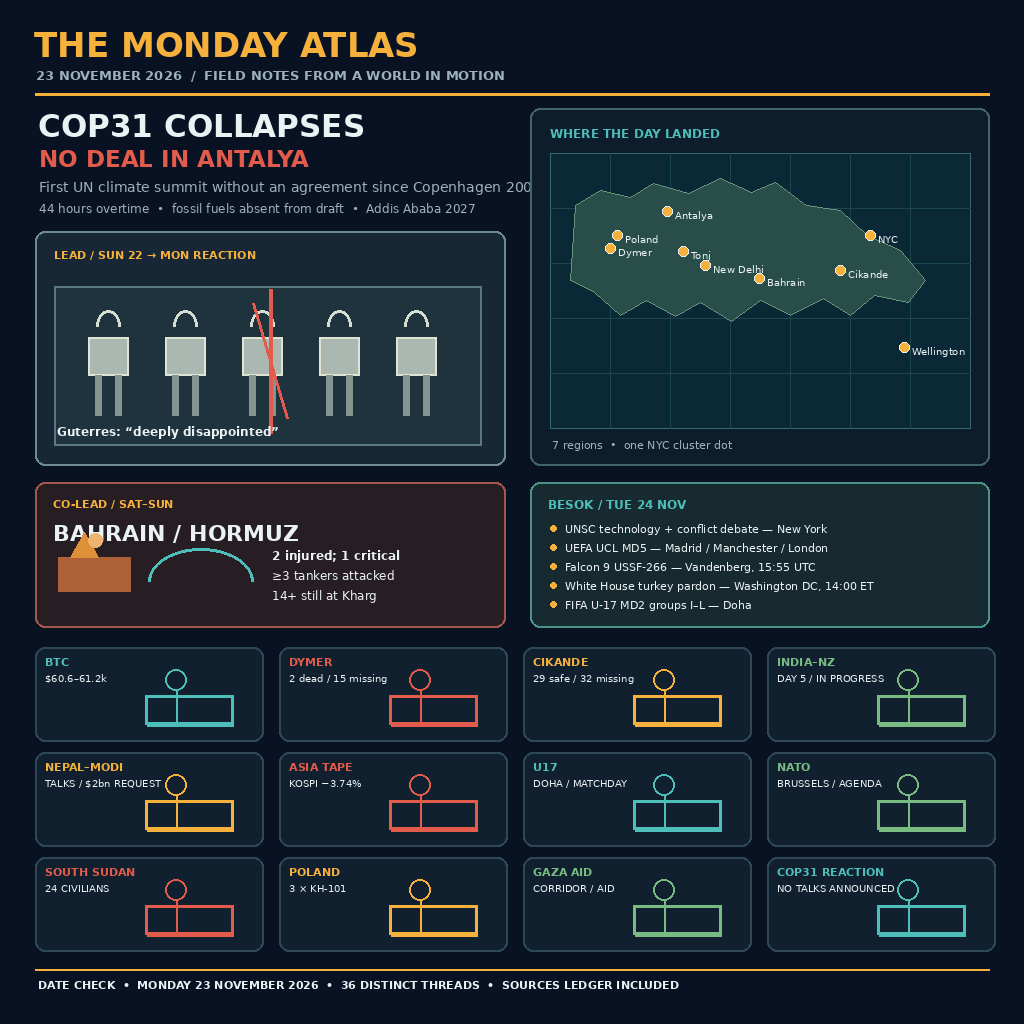
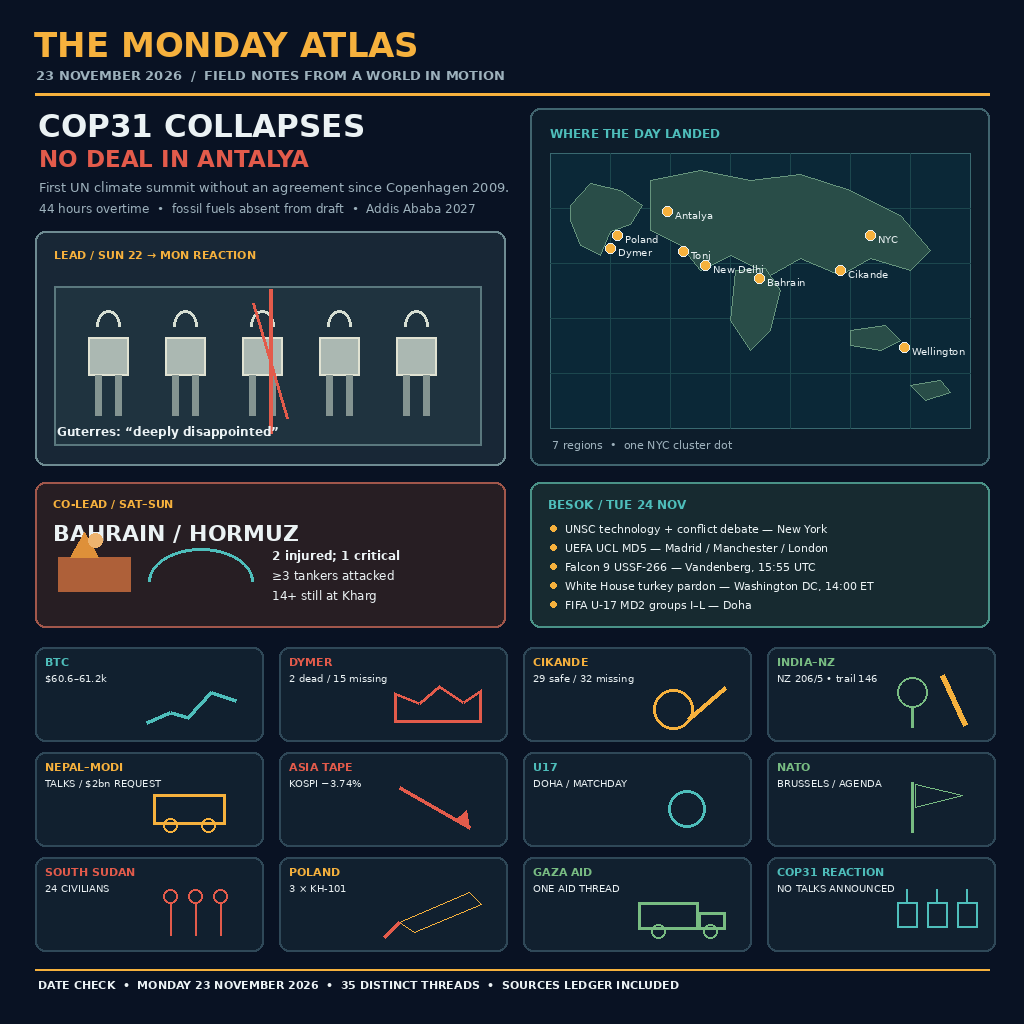
Fix R2 main.ts env, lead clip, map, cards, sources

diff --git a/main.ts b/main.ts
@@ -1,6 +1,6 @@
 import { copyFileSync, mkdirSync } from 'node:fs';
 import { dirname, join } from 'node:path';
-const out = process.argv[2] ?? 'output';
+const out = process.env.MAKEFUN_OUTPUT_DIR ?? '/output';
 // The wrapper is intentionally filesystem-only for the server-way harness.
 mkdirSync(out, { recursive: true });
 copyFileSync(join(dirname(new URL(import.meta.url).pathname), 'entry.png'), join(out, 'entry.png'));

diff --git a/render.py b/render.py
@@ -6,7 +6,7 @@ def F(n,b=0): return ImageFont.truetype(bp if b else fp,n)
 def t(x,y,s,n=14,c=INK,b=0): d.text((x,y),s,font=F(n,b),fill=c)
 def p(box,fill=PAPER,ol=LINE): d.rounded_rectangle(box,10,fill=fill,outline=ol,width=2)
 t(34,25,'THE MONDAY ATLAS',34,ACC,1); t(36,67,'23 NOVEMBER 2026  /  FIELD NOTES FROM A WORLD IN MOTION',13,MUTED,1); d.line((35,94,989,94),fill=ACC,width=3)
-t(38,108,'COP31 COLLAPSES',31,INK,1); t(39,145,'NO DEAL IN ANTALYA',23,RED,1); t(39,179,'First UN climate summit without an agreement since Copenhagen 2009.',14,MUTED); t(39,201,'44 hours overtime  •  fossil fuels absent from draft  •  Addis Ababa 2027',12,MUTED)
+t(38,108,'COP31 COLLAPSES',31,INK,1); t(39,145,'NO DEAL IN ANTALYA',23,RED,1); t(39,179,'First UN climate summit without an agreement since Copenhagen 2009.',13,MUTED); t(39,201,'44 hours overtime  •  fossil fuels absent from draft  •  Addis Ababa 2027',12,MUTED)
 p((35,231,505,465),(24,39,54),(110,139,146)); t(54,248,'LEAD / SUN 22 → MON REACTION',11,ACC,1); d.rectangle((54,286,481,445),fill=(31,51,63),outline=(90,120,126),width=2)
 for x in (88,165,242,319,396):
  d.rectangle((x,337,x+40,375),fill=(171,184,178),outline=(224,226,210),width=2); d.rectangle((x+7,375,x+13,415),fill=(132,148,145)); d.rectangle((x+27,375,x+33,415),fill=(132,148,145)); d.arc((x+8,310,x+32,342),180,360,fill=(214,222,210),width=3)
@@ -14,13 +14,28 @@ d.line((270,289,270,433),fill=RED,width=4); d.line((253,303,287,418),fill=RED,wi
 p((530,108,989,465),(13,29,43),(65,101,111)); t(550,126,'WHERE THE DAY LANDED',12,CYAN,1); mx,my,mw,mh=550,153,420,275; d.rectangle((mx,my,mx+mw,my+mh),fill=(11,40,55),outline=(57,105,112),width=1)
 for i in range(1,7): d.line((mx+i*mw/7,my,mx+i*mw/7,my+mh),fill=(28,71,78),width=1)
 for i in range(1,5): d.line((mx,my+i*mh/5,mx+mw,my+i*mh/5),fill=(28,71,78),width=1)
-coast=[(575,205),(600,190),(630,197),(653,183),(688,193),(720,178),(751,192),(775,182),(806,205),(840,210),(867,235),(900,250),(925,280),(908,302),(874,295),(850,315),(823,298),(790,315),(760,300),(731,321),(700,302),(675,316),(646,300),(620,315),(594,292),(570,280)]; d.polygon(coast,fill=(41,77,72),outline=(102,148,125))
+continents=[[(570,205),(590,183),(620,190),(642,205),(630,224),(610,231),(600,255),(580,245),(570,220)],[(650,180),(700,170),(750,180),(800,174),(850,190),(900,215),(930,250),(910,270),(870,258),(840,275),(800,258),(770,275),(730,255),(700,270),(680,245),(650,230)],[(735,270),(765,268),(780,290),(770,330),(750,350),(730,320)],[(850,330),(885,325),(900,340),(880,350),(850,345)],[(910,385),(940,380),(950,392),(925,400)]]
+for shape in continents: d.polygon(shape,fill=(41,77,72),outline=(102,148,125))
 for x,y,l in [(667,211,'Antalya'),(759,278,'Bahrain'),(610,248,'Dymer'),(705,265,'New Delhi'),(904,347,'Wellington'),(840,270,'Cikande'),(683,251,'Tonj'),(617,235,'Poland'),(870,235,'NYC')]: d.ellipse((x-5,y-5,x+5,y+5),fill=ACC,outline=INK,width=1); t(x+8,y-2,l,10)
 t(552,438,'7 regions  •  one NYC cluster dot',11,MUTED)
 p((35,482,505,627),(39,30,35),(161,87,75)); t(53,497,'CO-LEAD / SAT–SUN',11,ACC,1); t(53,520,'BAHRAIN / HORMUZ',22,INK,1); d.rectangle((58,557,130,591),fill=(174,96,57)); d.polygon([(70,557),(84,532),(98,557)],fill=(222,144,57)); d.ellipse((88,533,102,547),fill=(238,180,111)); d.arc((148,548,253,615),180,360,fill=CYAN,width=3); t(272,548,'2 injured; 1 critical',12,INK,1); t(272,568,'≥3 tankers attacked',12,INK); t(272,588,'14+ still at Kharg',12,INK)
 p((530,482,989,627),(23,42,48),(74,146,135)); t(548,497,'BESOK / TUE 24 NOV',12,CYAN,1); events=['UNSC technology + conflict debate — New York','UEFA UCL MD5 — Madrid / Manchester / London','Falcon 9 USSF-266 — Vandenberg, 15:55 UTC','White House turkey pardon — Washington DC, 14:00 ET','FIFA U-17 MD2 groups I–L — Doha']
 for i,e in enumerate(events): yy=522+i*19; d.ellipse((550,yy+3,556,yy+9),fill=ACC); t(565,yy,e,11)
-cards=[('BTC','$60.6–61.2k',CYAN),('DYMER','2 dead / 15 missing',RED),('CIKANDE','29 safe / 32 missing',ACC),('INDIA–NZ','DAY 5 / IN PROGRESS',GREEN),('NEPAL–MODI','TALKS / $2bn REQUEST',ACC),('ASIA TAPE','KOSPI −3.74%',RED),('U17','DOHA / MATCHDAY',CYAN),('NATO','BRUSSELS / AGENDA',GREEN),('SOUTH SUDAN','24 CIVILIANS',RED),('POLAND','3 × KH-101',ACC),('GAZA AID','CORRIDOR / AID',GREEN),('COP31 REACTION','NO TALKS ANNOUNCED',CYAN)]
-for i,(a,b,c) in enumerate(cards):
- x=35+(i%4)*244; y=647+(i//4)*105; p((x,y,x+228,y+94),(17,32,47)); t(x+10,y+8,a,11,c,1); t(x+10,y+25,b,10); d.rectangle((x+110,y+48,x+198,y+77),outline=c,width=3); d.ellipse((x+130,y+22,x+151,y+43),outline=c,width=2); d.line((x+141,y+43,x+141,y+78),fill=c,width=2); d.line((x+112,y+78,x+198,y+78),fill=c,width=2)
-d.line((35,969,989,969),fill=ACC,width=2); t(38,978,'DATE CHECK  •  MONDAY 23 NOVEMBER 2026  •  36 DISTINCT THREADS  •  SOURCES LEDGER INCLUDED',11,INK,1); img.save('entry.png',optimize=True)
+cards=[('BTC','$60.6–61.2k',CYAN,'chart'),('DYMER','2 dead / 15 missing',RED,'ruin'),('CIKANDE','29 safe / 32 missing',ACC,'search'),('INDIA–NZ','NZ 206/5 • trail 146',GREEN,'bat'),('NEPAL–MODI','TALKS / $2bn REQUEST',ACC,'train'),('ASIA TAPE','KOSPI −3.74%',RED,'down'),('U17','DOHA / MATCHDAY',CYAN,'ball'),('NATO','BRUSSELS / AGENDA',GREEN,'flag'),('SOUTH SUDAN','24 CIVILIANS',RED,'people'),('POLAND','3 × KH-101',ACC,'missile'),('GAZA AID','ONE AID THREAD',GREEN,'truck'),('COP31 REACTION','NO TALKS ANNOUNCED',CYAN,'chairs')]
+for i,(a,b,c,k) in enumerate(cards):
+ x=35+(i%4)*244; y=647+(i//4)*105; p((x,y,x+228,y+94),(17,32,47)); t(x+10,y+8,a,11,c,1); t(x+10,y+25,b,10)
+ if k=='chart': d.line((x+112,y+75,x+135,y+65,x+153,y+70,x+176,y+45,x+200,y+53),fill=c,width=4)
+ elif k=='ruin': d.polygon([(x+115,y+75),(x+115,y+45),(x+140,y+55),(x+160,y+38),(x+184,y+54),(x+202,y+42),(x+202,y+75)],outline=c,width=3)
+ elif k=='search': d.ellipse((x+130,y+42,x+170,y+82),outline=c,width=3); d.line((x+165,y+72,x+202,y+40),fill=c,width=4)
+ elif k=='bat': d.ellipse((x+130,y+30,x+160,y+60),outline=c,width=2); d.line((x+145,y+60,x+145,y+80),fill=c,width=3); d.line((x+175,y+28,x+198,y+78),fill=ACC,width=5)
+ elif k=='train': d.rectangle((x+118,y+42,x+190,y+72),outline=c,width=3); d.ellipse((x+128,y+66,x+142,y+80),outline=c,width=2); d.ellipse((x+166,y+66,x+180,y+80),outline=c,width=2)
+ elif k=='down': d.line((x+120,y+35,x+190,y+75),fill=c,width=4); d.polygon([(x+190,y+75),(x+176,y+68),(x+187,y+58)],fill=c)
+ elif k=='ball': d.ellipse((x+145,y+38,x+182,y+75),outline=c,width=3); d.arc((x+145,y+38,x+182,y+75),20,150,fill=c,width=2)
+ elif k=='flag': d.line((x+145,y+30,x+145,y+80),fill=c,width=3); d.polygon([(x+148,y+32),(x+195,y+43),(x+148,y+55)],outline=c)
+ elif k=='people':
+  for q in (135,160,185): d.ellipse((x+q-7,y+32,x+q+7,y+46),outline=c,width=2); d.line((x+q,y+46,x+q,y+78),fill=c,width=2)
+ elif k=='missile': d.polygon([(x+120,y+65),(x+190,y+35),(x+202,y+47),(x+135,y+75)],outline=c); d.line((x+120,y+65,x+105,y+80),fill=RED,width=3)
+ elif k=='truck': d.rectangle((x+115,y+45,x+175,y+72),outline=c,width=3); d.rectangle((x+175,y+55,x+202,y+72),outline=c,width=3); d.ellipse((x+128,y+67,x+142,y+81),outline=c,width=2); d.ellipse((x+180,y+67,x+194,y+81),outline=c,width=2)
+ else:
+  for q in (130,160,190): d.rectangle((x+q,y+45,x+q+20,y+70),outline=c,width=2); d.line((x+q+10,y+45,x+q+10,y+32),fill=c,width=2)
+d.line((35,969,989,969),fill=ACC,width=2); t(38,978,'DATE CHECK  •  MONDAY 23 NOVEMBER 2026  •  35 DISTINCT THREADS  •  SOURCES LEDGER INCLUDED',11,INK,1); img.save('entry.png',optimize=True)

diff --git a/SOURCES.md b/SOURCES.md
@@ -1,6 +1,6 @@
 # Sources and thread ledger
 
-The visual contains 36 distinct threads. Dates are event dates; in-progress items are labelled as such.
+The visual contains 35 distinct threads. Dates are event dates; in-progress items are labelled as such.
 
 1. COP31 collapse, Antalya, SUN 22 Nov — Reuters/IPS/Greenpeace
 2. Guterres reaction, MON 23 Nov — Reuters
@@ -14,7 +14,7 @@ The visual contains 36 distinct threads. Dates are event dates; in-progress item
 10. Ukraine weekly barrage, SUN 22 Nov — Reuters
 11. Cikande fire, SAT-SUN — Reuters/AP
 12. Cikande search day 2, MON 23 Nov — Basarnas/Detik
-13. India-NZ Test day 5 in progress, MON 23 Nov — Reuters/ESPNcricinfo
+13. India-NZ Test day 5 in progress, MON 23 Nov — IANS/ESPNcricinfo (NZ 206/5, trail 146)
 14. Nepal-Modi talks in progress, MON 23 Nov — IANS/MEA
 15. Nepal $2bn request, MON 23 Nov — IANS/Business News Today
 16. NATO Council agenda, MON 23 Nov — NATO/Reuters
@@ -27,16 +27,15 @@ The visual contains 36 distinct threads. Dates are event dates; in-progress item
 23. U17 Matchday 2 schedule, MON 23 Nov — FIFA/ESPN
 24. Nigeria funeral boat, FRI 20 Nov — AP/Reuters
 25. Gaza aid corridor, SUN 22 Nov — UN OCHA
-26. Myanmar earthquake response, SUN 22 Nov — USGS/relief agencies
-27. Japan market holiday, MON 23 Nov — JPX calendar
-28. US stocks correction, FRI 20 Nov — NPR/CBOE
-29. NYC tech and crypto cluster, MON 23 Nov — market tape
-30. EU climate rejection, SUN 22 Nov — EU statement
-31. Panama/Marshall Islands/Norway rejection, SUN 22 Nov — COP31 plenary
-32. COP32 host Addis Ababa 2027 — UNFCCC
-33. Gaza humanitarian access, SUN 22 Nov — UN OCHA
-34. Kyiv energy strain, SUN 22 Nov — Zelenskyy/Reuters
-35. Gulf air-defense claims, SAT-SUN — CENTCOM/Bahrain statements
-36. Tomorrow diary events, TUE 24 Nov — UNSC/UEFA/SpaceX/White House/FIFA schedules
+26. Japan market holiday, MON 23 Nov — JPX calendar
+27. US stocks correction, FRI 20 Nov — NPR/CBOE
+28. NYC tech and crypto cluster, MON 23 Nov — market tape
+29. EU climate rejection, SUN 22 Nov — EU statement
+30. Panama/Marshall Islands/Norway rejection, SUN 22 Nov — COP31 plenary
+31. COP32 host Addis Ababa 2027 — UNFCCC
+32. Gaza aid and humanitarian access, SUN 22 Nov — UN OCHA
+33. Kyiv energy strain, SUN 22 Nov — Zelenskyy/Reuters
+34. Gulf air-defense claims, SAT-SUN — CENTCOM/Bahrain statements
+35. Tomorrow diary events, TUE 24 Nov — UNSC/UEFA/SpaceX/White House/FIFA schedules
 
 Second-pass audit: no unverified India result, Nepal commitment, Cikande death count, or Shenzhou 24 date is used.
